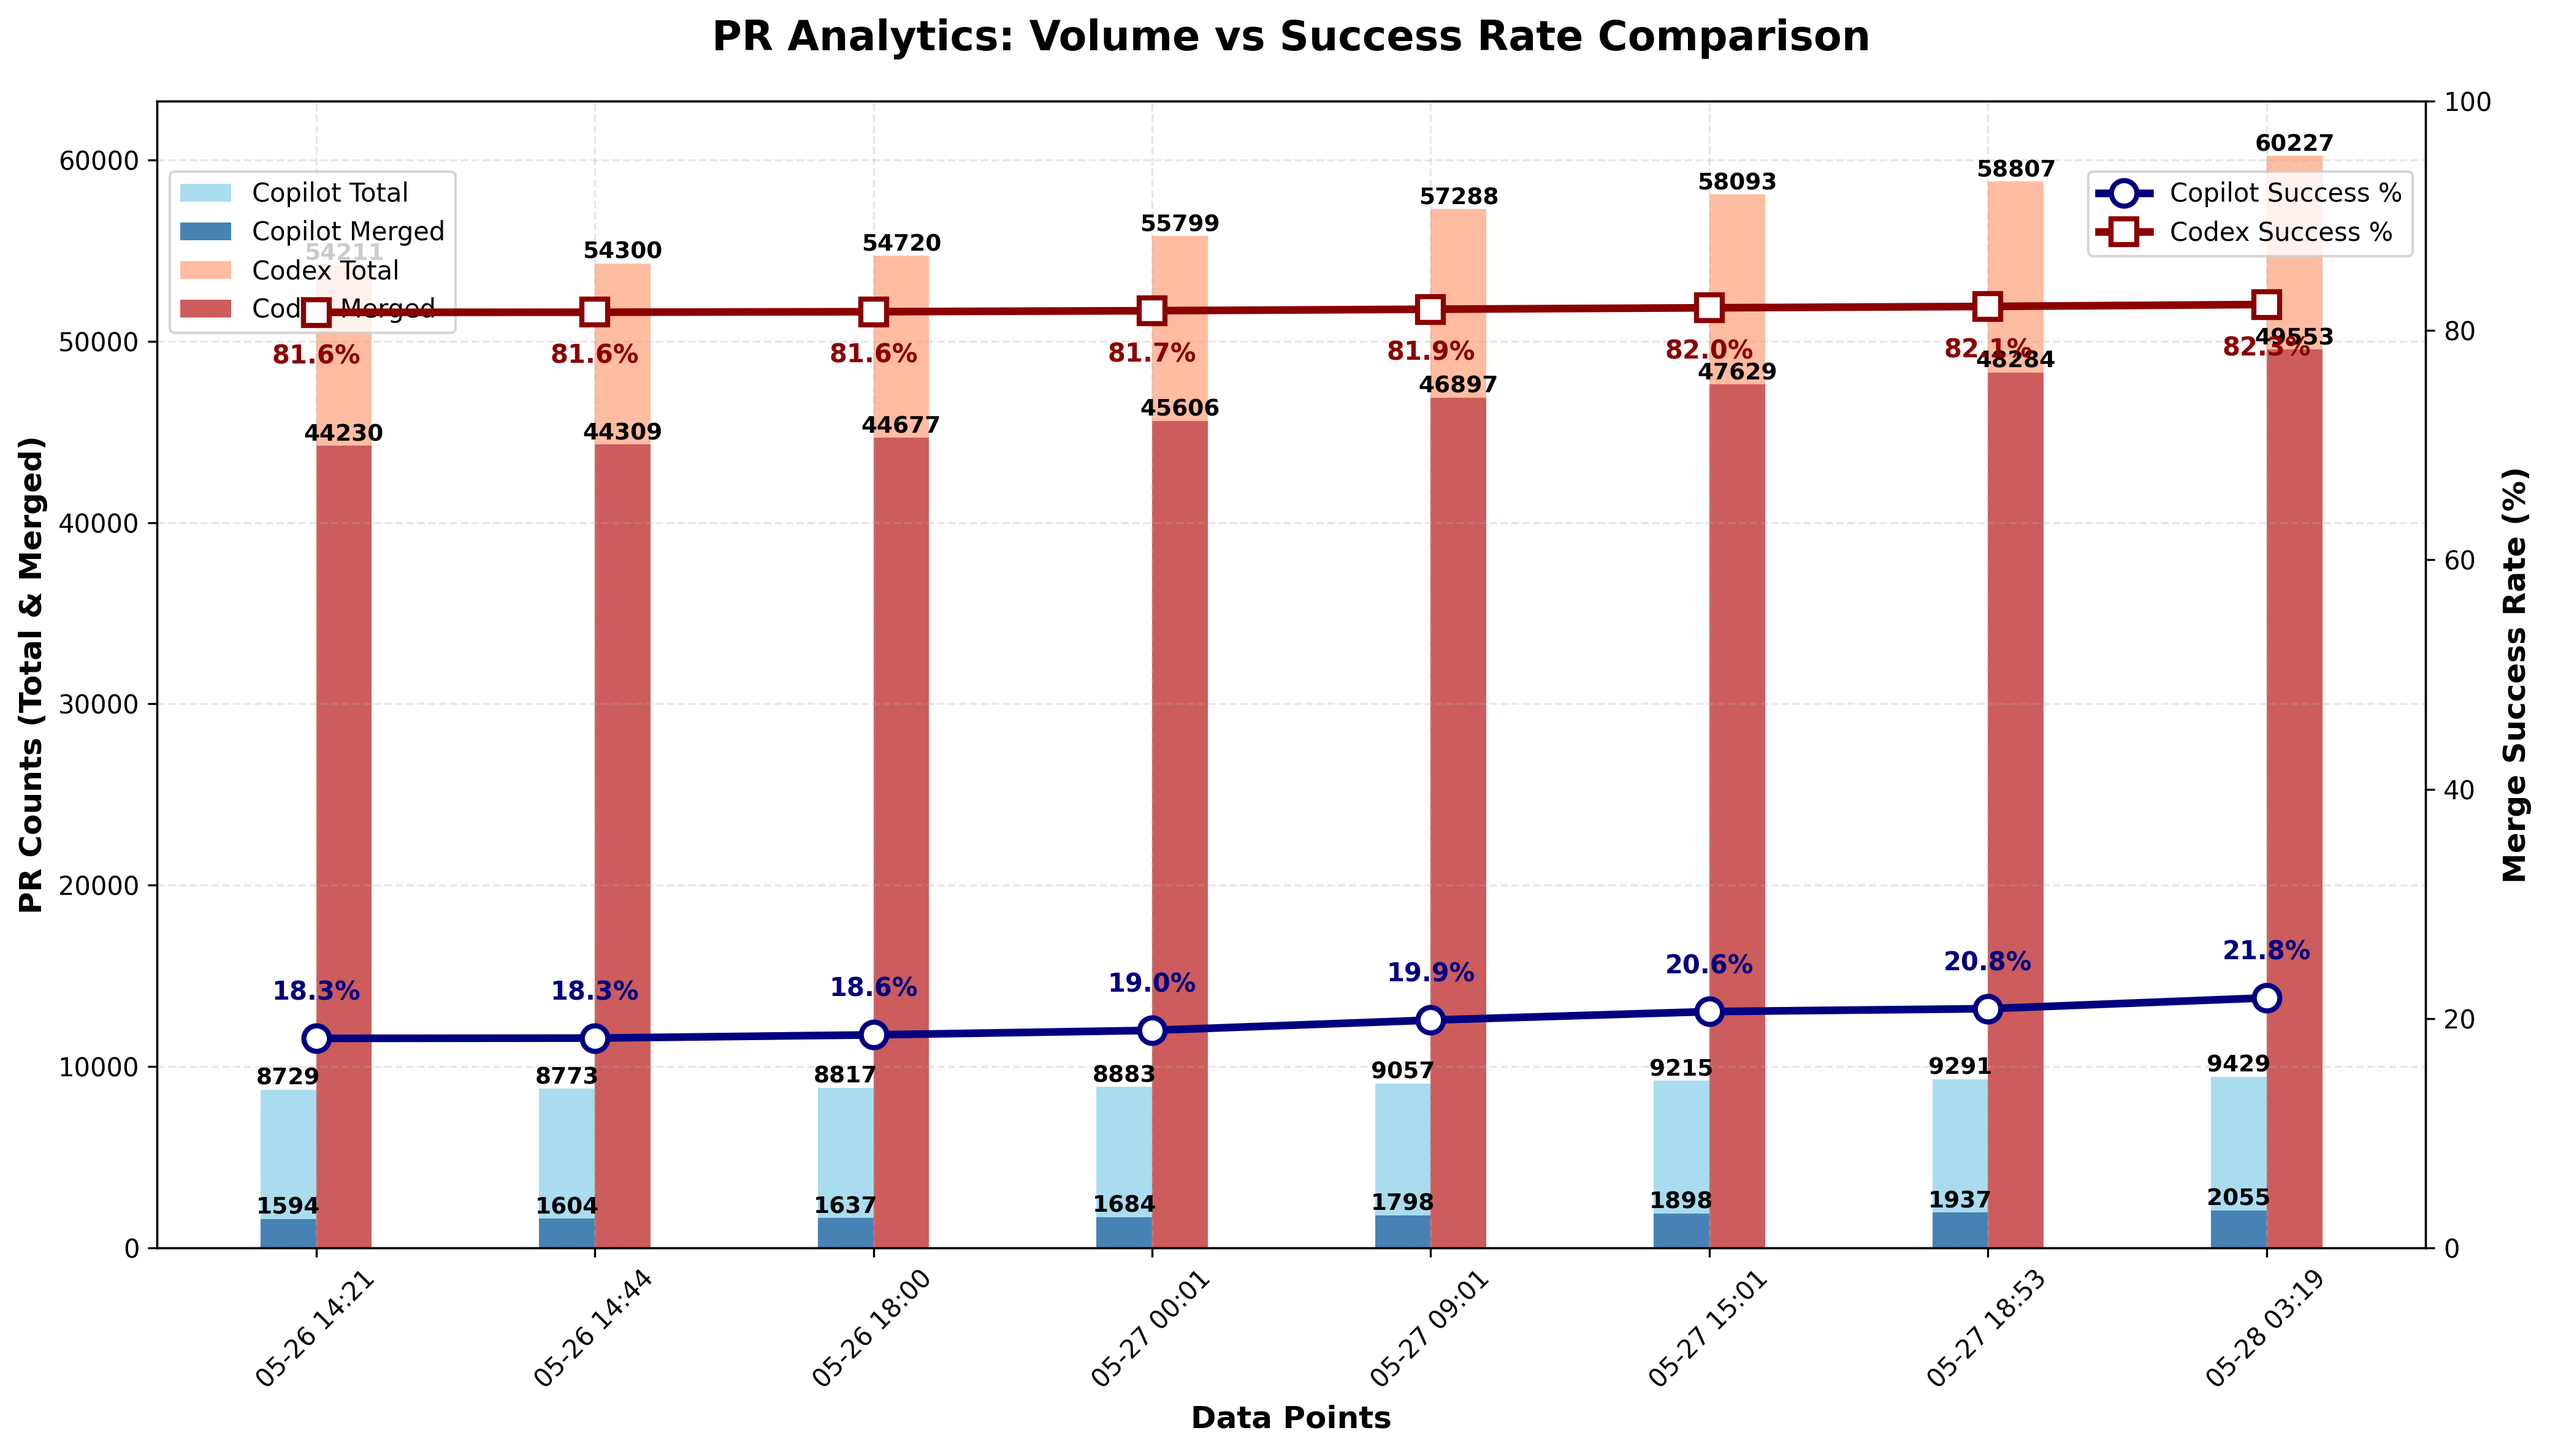
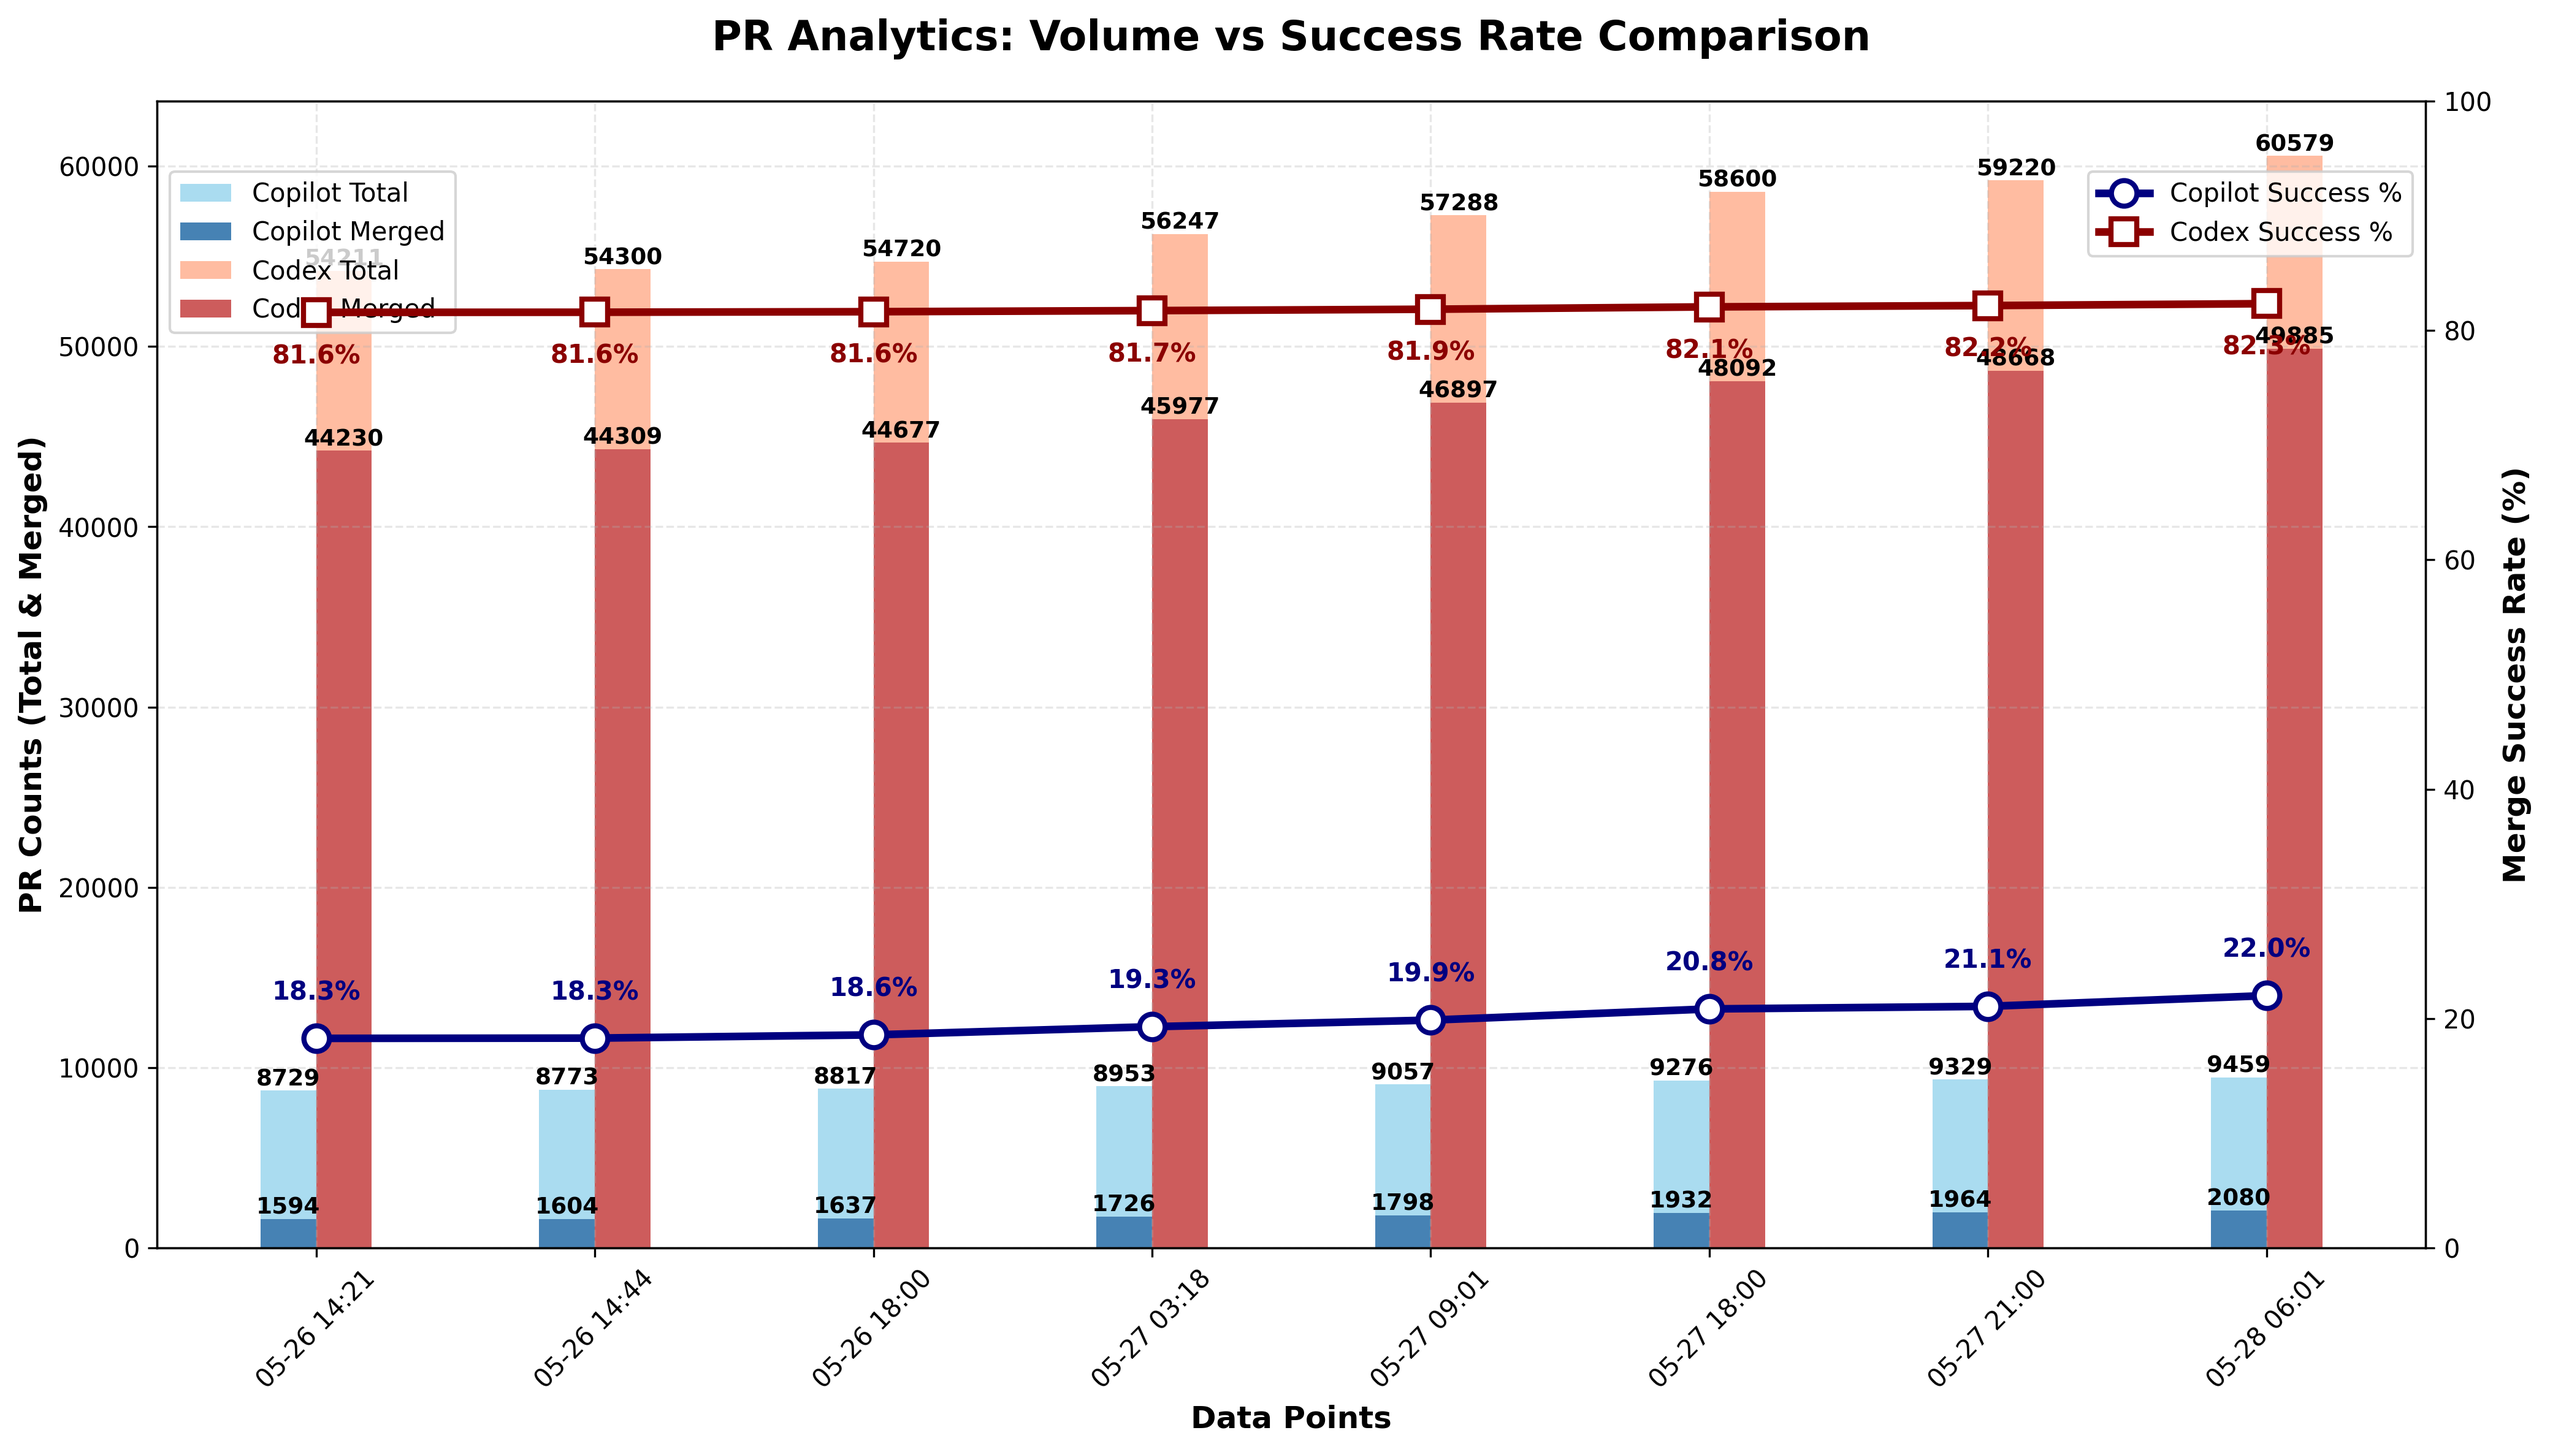
chore: update PR‑approval chart

diff --git a/docs/index.html b/docs/index.html
@@ -44,22 +44,22 @@
                 <tbody>
                     <tr>
                         <td>Copilot</td>
-                        <td>9,429</td>
-                        <td>2,055</td>
-                        <td>21.79%</td>
+                        <td>9,459</td>
+                        <td>2,080</td>
+                        <td>21.99%</td>
                     </tr>
                     <tr>
                         <td>Codex</td>
-                        <td>60,227</td>
-                        <td>49,553</td>
-                        <td>82.28%</td>
+                        <td>60,579</td>
+                        <td>49,885</td>
+                        <td>82.35%</td>
                     </tr>
                 </tbody>
             </table>
         </section>
 
         <footer>
-            <p>Last updated: <span id="last-updated">May 28, 2025 03:20 UTC</span></p>
+            <p>Last updated: <span id="last-updated">May 28, 2025 06:01 UTC</span></p>
             <p><a href="https://github.com/aavetis/ai-pr-watcher">View on GitHub</a></p>
         </footer>
     </div>

diff --git a/README.md b/README.md
@@ -19,5 +19,5 @@ Explore the GitHub search queries used:
 
 | Project | Total PRs | Merged PRs | Merge Rate |
 | ------- | --------- | ---------- | ---------- |
-| Copilot | 9,429 | 2,055 | 21.79% |
-| Codex   | 60,227 | 49,553 | 82.28% |
+| Copilot | 9,459 | 2,080 | 21.99% |
+| Codex   | 60,579 | 49,885 | 82.35% |
